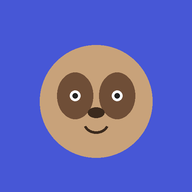
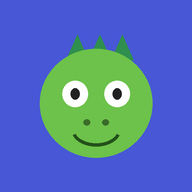
Add files via upload

Changed region(s): [[0.1875, 0.1875, 0.8125, 0.8438]]

diff --git a/index.html b/index.html
@@ -29,9 +29,21 @@ h1{font-size:28px;margin:4px 0 2px}h2{font-size:20px;margin:0 0 8px}
 .combo{text-align:center;font-weight:800;font-size:22px;min-height:34px;margin:0 0 8px}
 .pop{animation:pop .5s cubic-bezier(.3,1.6,.5,1)}@keyframes pop{from{transform:scale(.4);opacity:0}}
 .fx{position:fixed;top:-30px;font-size:28px;pointer-events:none;animation:fall 1.6s ease-in forwards;z-index:9}@keyframes fall{to{transform:translateY(110vh) rotate(360deg)}}
-@media (prefers-reduced-motion:reduce){.trail .me,.pop{animation:none}.fx{display:none}}
+@media (prefers-reduced-motion:reduce){.trail .me,.pop,.dz,.nt{animation:none}.fx{display:none}}
 .dots{display:flex;gap:6px;margin:0 0 14px}.dots i{flex:1;height:8px;border-radius:5px;background:var(--ac2)}.dots i.d{background:var(--ac)}
-.q{font-size:52px;font-weight:800;text-align:center;padding:30px 8px;letter-spacing:1px}
+.q{font-size:46px;font-weight:800;text-align:center;padding:12px 8px;letter-spacing:1px}
+.stage{height:80px;text-align:center;margin:0 0 4px}.stage .dz{display:inline-block;font-size:46px;line-height:56px}.stage .cap{font-weight:800;font-size:15px;height:20px}
+.nt{display:inline-block;width:34px;font-size:24px;animation:flt 1s ease-in-out infinite}.nt.n2{animation-delay:.4s}
+@keyframes flt{50%{transform:translateY(-10px) rotate(12deg)}}
+.d0{opacity:.55}.d1{animation:sway .9s ease-in-out infinite}.d2{animation:hop2 .5s ease-in-out infinite}.d3{animation:spin 1s linear infinite,hop2 .5s ease-in-out infinite}.d4{animation:party .6s ease-in-out infinite}
+@keyframes sway{0%,100%{transform:rotate(-12deg)}50%{transform:rotate(12deg)}}
+@keyframes hop2{50%{transform:translateY(-12px) scale(1.15)}}
+@keyframes spin{to{rotate:360deg}}
+@keyframes party{25%{transform:translateY(-14px) rotate(-18deg) scale(1.2)}75%{transform:translateY(-14px) rotate(18deg) scale(1.2)}}
+.fbw{min-height:70px}.fbw .fb{font-size:15px;margin:0 0 6px;padding:8px 12px}
+.ar{display:flex;gap:6px;margin:0 0 6px}.ar .b{width:64px;margin:0;font-size:24px;min-height:56px}
+.ans{flex:1;min-height:56px;display:grid;place-items:center;font-size:32px;font-weight:800;border:2px solid var(--bd);border-radius:16px;background:var(--card)}
+.kp5{display:grid;grid-template-columns:repeat(5,1fr);gap:6px;margin:0 0 6px}.kp5 .b{margin:0;min-height:52px;font-size:24px}
 input{width:100%;min-height:62px;font:inherit;font-size:30px;font-weight:700;text-align:center;border-radius:16px;border:2px solid var(--bd);background:var(--card);color:var(--tx);margin:0 0 12px}
 .fb{border-radius:14px;padding:12px 14px;margin:0 0 12px;font-size:17px}
 .fb.ok{background:var(--ok2);color:var(--ok)}.fb.tp{background:var(--tp2);color:var(--tp)}
@@ -108,8 +120,28 @@ let AC;const snd=(f,d,t,s,v,f2)=>{if(S.mute)return;try{AC=AC||new(window.AudioCo
 const ding=()=>{snd(660,.12,`triangle`);snd(880,.16,`triangle`,.09)},boing=()=>{snd(150,.28,`sine`,0,.25,650);snd(650,.25,`sine`,.28,.2,180)},fan=()=>[523,659,784,1047,1319].forEach((f,k)=>snd(f,.18,`triangle`,k*.1,.18));
 const burst=e=>{for(let k=0;k<26;k++){const x=document.createElement(`span`);x.className=`fx`;x.textContent=pick(e);x.style.left=r(0,92)+`vw`;x.style.animationDelay=(r(0,40)/100)+`s`;document.body.appendChild(x);setTimeout(()=>x.remove(),2300)}};
 const TR=[`🌲`,`🍄`,`🌉`,`🐊`,`⛰`,`🌋`,`🏝`,`🦀`,`🏰`,`💎`];
-const trail=()=>{const p=S.steps%10;return `<div class="trail">${TR.map((e,k)=>`<span class="${k<p?`v`:k==p?`me`:``}">${k==p?`🦥`:e}</span>`).join(``)}</div>`};
-const combo=()=>cb>=2?`<div class="combo${locked&&cb>=3?` pop`:``}">${`🔥`.repeat(Math.min(cb,8))} ${cb>=8?`TÖKÉLETES! `:cb>=5?`SZUPER! `:cb>=3?`SOROZAT! `:``}${cb} egymás után</div>`:`<div class="combo"></div>`;
+const trail=()=>{const p=S.steps%10;return `<div class="trail">${TR.map((e,k)=>`<span class="${k<p?`v`:k==p?`me`:``}">${k==p?DZ:e}</span>`).join(``)}</div>`};
+let ans=``,seq=null,stp=0;
+const DZ=`🦖`,fq=n=>261.63*Math.pow(2,n/12),ac=()=>{AC=AC||new(window.AudioContext||window.webkitAudioContext)();if(AC.state==`suspended`)AC.resume();return AC};
+function vox(f,d){try{const a=ac(),n=a.currentTime,o=a.createOscillator(),g=a.createGain(),b1=a.createBiquadFilter(),b2=a.createBiquadFilter(),l=a.createOscillator(),lg=a.createGain();
+ o.type=`sawtooth`;o.frequency.value=f;l.frequency.value=5.5;lg.gain.value=f*.012;l.connect(lg);lg.connect(o.frequency);
+ b1.type=b2.type=`bandpass`;b1.frequency.value=800;b2.frequency.value=1250;b1.Q.value=b2.Q.value=5;
+ o.connect(b1);o.connect(b2);b1.connect(g);b2.connect(g);g.connect(a.destination);
+ g.gain.setValueAtTime(0,n);g.gain.linearRampToValueAtTime(.5,n+.05);g.gain.linearRampToValueAtTime(0,n+d);
+ o.start(n);l.start(n);o.stop(n+d);l.stop(n+d)}catch(e){}}
+function tick(){if(!cb||V!=`quiz`){clearInterval(seq);seq=null;return}if(S.mute)return;
+ const s=stp++%8,L=cb,sc=[0,2,4,7,9];
+ if(s%4==0)snd(150,.16,`sine`,0,.32,45);
+ if(s%2==1)snd(7000,.03,`square`,0,.025);
+ if(L>=2&&s%2==0)snd(fq([0,0,7,5][(s>>1)&3]-12),.26,`triangle`,0,.22);
+ if(L>=3&&s%2==0)snd(fq(pick(sc)+12),.22,`triangle`,0,.12);
+ if(L>=5&&s%4==2)vox(fq(pick([0,4,7])),.5);
+ if(L>=8&&s%2==1)snd(fq(pick(sc)+24),.1,`square`,0,.04)}
+const songOn=()=>{if(!seq){stp=0;seq=setInterval(tick,240)}};
+function key(k){if(locked)return;if(k==`✓`)return sub();if(k==`⌫`)ans=ans.slice(0,-1);else if(ans.length<5)ans+=k;const e=document.getElementById(`ans`);if(e)e.innerHTML=ans||`&nbsp;`}
+document.addEventListener(`keydown`,e=>{if(V!=`quiz`)return;if(/^\d$/.test(e.key))key(e.key);else if(e.key==`Backspace`)key(`⌫`);else if(e.key==`Enter`)key(`✓`)});
+const combo=()=>{const l=cb>=8?4:cb>=5?3:cb>=3?2:cb>=1?1:0;
+ return `<div class="stage">${l?`<span class="nt">${l>=2?`🎵`:``}</span><span class="dz d${l}">${DZ}</span><span class="nt n2">${l>=3?`🎶`:``}</span>`:`<span class="dz d0">${DZ}</span>`}<div class="cap">${cb>=2?`${cb>=8?`TÖKÉLETES! `:cb>=5?`SZUPER! `:cb>=3?`SOROZAT! `:``}${cb} egymás után`:`&nbsp;`}</div></div>`};
 function startFree(id){diag=false;Q=[];add(SK.find(s=>s.id==id),8);go()}const lv=p=>Math.floor(p/100);const ST=[`🦊`,`🚀`,`🐙`,`🦄`,`🐲`,`🦖`,`🪐`,`🏆`];const mast=id=>(S.hist[id]||[]).length>=8&&mean(id)>=.9;
 const today=()=>new Date().toLocaleDateString(`sv`);
 const streak=()=>{const set=new Set(S.days);let d=new Date();if(!set.has(d.toLocaleDateString(`sv`)))d.setDate(d.getDate()-1);let n=0;while(set.has(d.toLocaleDateString(`sv`))){n++;d.setDate(d.getDate()-1)}return n};
@@ -117,20 +149,20 @@ let V=`home`,Q=[],i=0,tr=0,diag=false,got=0,fb=``,hint=``,locked=false,rs=false,
 const add=(sk,n)=>{let c=0,g=0;while(c<n&&g<200){g++;const x=sk.g();if(Q.some(y=>y.q==x.q))continue;x.s=sk.id;Q.push(x);c++}};
 function startDiag(){diag=true;Q=[];SK.filter(s=>s.core).forEach(s=>add(s,2));Q.sort(()=>Math.random()-.5);go()}
 function startPractice(){diag=false;Q=[];const has=s=>(S.hist[s.id]||[]).length>0,pool=SK.filter(s=>s.core||has(s)),o=pool.slice().sort((a,b)=>mean(a.id)-mean(b.id)),ex=SK.filter(s=>!s.core).sort((a,b)=>(S.hist[a.id]||[]).length-(S.hist[b.id]||[]).length)[0],st=pool.filter(has).sort((a,b)=>mean(b.id)-mean(a.id))[0]||o[o.length-1];add(st,2);add(o[0],4);if(ex&&ex!==o[0]&&ex!==st)add(ex,2);else add(o[0],2);go()}
-function go(){i=0;tr=0;got=0;sp=0;cb=0;p0=S.pts;fb=``;hint=``;locked=false;V=`quiz`;show()}
+function go(){ans=``;i=0;tr=0;got=0;sp=0;cb=0;p0=S.pts;fb=``;hint=``;locked=false;V=`quiz`;show()}
 function rec(c,v){const h=(S.hist[c.s]||[]);h.push(v);S.hist[c.s]=h.slice(-10);save()}
 function miss(c){if(c.k){S.miss[c.k]=(S.miss[c.k]||0)+1;save()}}
-function sub(){if(locked)return;const el=document.getElementById(`in`),v=el.value.trim();if(v==``)return;const c=Q[i],ok=parseInt(v,10)===c.a;
- if(ok){if(tr==0){got++;cb++;const bn=cb%3==0?5:0;aw(10+bn);ft=bn?`Sorozat: ${cb} egymás után! ✓ +${10+bn}`:`Ügyes! ✓ +10`;if(cb==3||cb==5||cb==8){fan();burst(cb>=8?[`🌟`,`🎉`,`🔥`,`🏆`]:cb>=5?[`🎉`,`⭐`,`🔥`]:[`⭐`,`✨`])}else ding();rec(c,1);if(c.k&&S.miss[c.k]>0){S.miss[c.k]--;save()}}else{cb=0;aw(5);ft=`Megvan! ✓ +5`;snd(560,.15,`triangle`);rec(c,0);miss(c)}fb=`ok`;locked=true;show();setTimeout(next,tr==0?650:900)}
+function sub(){if(locked)return;const v=ans.trim();if(v==``)return;ans=``;const c=Q[i],ok=parseInt(v,10)===c.a;
+ if(ok){if(tr==0){got++;cb++;songOn();const bn=cb%3==0?5:0;aw(10+bn);ft=bn?`Sorozat: ${cb} egymás után! ✓ +${10+bn}`:`Ügyes! ✓ +10`;if(cb==3||cb==5||cb==8){fan();burst(cb>=8?[`🌟`,`🎉`,`🔥`,`🏆`]:cb>=5?[`🎉`,`⭐`,`🔥`]:[`⭐`,`✨`])}else ding();rec(c,1);if(c.k&&S.miss[c.k]>0){S.miss[c.k]--;save()}}else{cb=0;aw(5);ft=`Megvan! ✓ +5`;snd(560,.15,`triangle`);rec(c,0);miss(c)}fb=`ok`;locked=true;show();setTimeout(next,tr==0?650:900)}
  else if(diag){cb=0;rec(c,0);miss(c);next()}
  else if(tr==0){tr=1;hint=c.h;fb=`tp`;snd(300,.18,`sine`,0,.1,220);show()}
  else{cb=0;rec(c,0);miss(c);fb=`ans`;locked=true;show();setTimeout(next,1900)}}
-function next(){i++;tr=0;fb=``;hint=``;locked=false;if(i>=Q.length){const t=today();if(!S.days.includes(t)){S.days.push(t);aw(20)}if(diag)S.diag=true;S.steps++;save();V=`done`;boing();if(S.steps%10==0){setTimeout(fan,500);burst([`💎`,`🎉`,`⭐`,`🏆`])}}show()}
+function next(){ans=``;i++;tr=0;fb=``;hint=``;locked=false;if(i>=Q.length){const t=today();if(!S.days.includes(t)){S.days.push(t);aw(20)}if(diag)S.diag=true;S.steps++;save();V=`done`;boing();if(S.steps%10==0){setTimeout(fan,500);burst([`💎`,`🎉`,`⭐`,`🏆`])}}show()}
 function show(){if(authView())return;
  if(V==`home`){const st=streak();
   $.innerHTML=`<h1>Számolós</h1><p class="mu">${role==`child`&&U()?`Szia, ${U().child.name}! `:``}Napi 10 perc, egy dolog egyszerre.</p>
   <div class="c"><div class="row"><b>Szint ${lv(S.pts)+1}</b><span>${S.pts} pont</span></div><div class="bar"><i style="width:${S.pts%100}%"></i></div><div class="st">${ST.map((e,k)=>k<lv(S.pts)?`<span>${e}</span>`:`<span class="x">?</span>`).join(``)}</div><p class="mu" style="margin:12px 0 0">Még ${100-S.pts%100} pont a következő matricáig. ${st?`${st} napja gyakorolsz egyfolytában.`:`Ma még nem gyakoroltál.`}</p></div>
-  <div class="c"><div class="row"><b>Laci kalandja</b><span>${S.steps} lépés</span></div>${trail()}<p class="mu" style="margin:6px 0 0">Minden befejezett körrel Laci, a lajhár egy lépést tesz a kincs felé.</p></div>
+  <div class="c"><div class="row"><b>Kalandút</b><span>${S.steps} lépés</span></div>${trail()}<p class="mu" style="margin:6px 0 0">Minden befejezett körrel a dínó egy lépést tesz a kincs felé.</p></div>
   <button class="b" onclick="${S.diag?`startPractice()`:`startDiag()`}">${S.diag?`Mai gyakorlás`:`Kezdjük egy kis felméréssel`}</button>${S.diag?`<button class="b s" onclick="V='free';show()">Szabad gyakorlás</button>`:``}
   ${S.diag?`<button class="b s" onclick="startDiag()">Új felmérés</button>`:`<p class="mu">Pár feladat, hogy lássuk, min érdemes kezdeni. Itt nincs rossz válasz, csak információ.</p>`}
   ${S.diag?`<div class="c"><h2>Hol tartasz</h2>${SK.filter(s=>s.core||(S.hist[s.id]||[]).length).map(s=>`<div class="row"><span>${s.n}</span>${mast(s.id)?`<b>⭐ Mester</b>`:``}</div><div class="bar"><i style="width:${Math.round(mean(s.id)*100)}%"></i></div>`).join(``)}</div>`:``}
@@ -138,14 +170,13 @@ function show(){if(authView())return;
  else if(V==`quiz`){const c=Q[i];
   $.innerHTML=`<div class="dots">${Q.map((_,k)=>`<i class="${k<i?`d`:``}"></i>`).join(``)}</div>
   ${combo()}<div class="c"><div class="q${c.q.length>14?` t`:``}">${c.q}${c.q.length>14?``:` = ?`}</div></div>
-  ${fb==`ok`?`<div class="fb ok">${ft}</div>`:fb==`tp`?`<div class="fb tp"><b>Majdnem!</b> Egy tipp: ${hint}<br>Próbáld újra.</div>`:fb==`ans`?`<div class="fb tp">A válasz: <b>${c.a}</b>. Semmi baj, megyünk tovább!</div>`:``}
-  <input id="in" type="text" inputmode="numeric" pattern="[0-9]*" autocomplete="off" aria-label="Válasz" ${locked?`disabled`:``} onkeydown="if(event.key==='Enter')sub()">
-  <button class="b" onclick="sub()" ${locked?`disabled`:``}>Kész</button>
-  <button class="l" onclick="V='home';show()">Kilépek</button>`;
-  if(!locked)document.getElementById(`in`).focus()}
+  <div class="fbw">${fb==`ok`?`<div class="fb ok">${ft}</div>`:fb==`tp`?`<div class="fb tp"><b>Majdnem!</b> Egy tipp: ${hint}<br>Próbáld újra.</div>`:fb==`ans`?`<div class="fb tp">A válasz: <b>${c.a}</b>. Semmi baj, megyünk tovább!</div>`:``}</div>
+  <div class="ar"><div class="ans" id="ans">${ans||`&nbsp;`}</div><button class="b s" onclick="key('⌫')" aria-label="Törlés">⌫</button><button class="b" onclick="key('✓')" aria-label="Kész">✓</button></div>
+  <div class="kp5">${[1,2,3,4,5,6,7,8,9,0].map(k=>`<button class="b s" onclick="key('${k}')">${k}</button>`).join(``)}</div>
+  <button class="l" onclick="V='home';show()">Kilépek</button>`;}
  else if(V==`done`){const w=SK.slice().sort((a,b)=>mean(a.id)-mean(b.id))[0];
   $.innerHTML=`<div class="c"><div class="big">🎉</div><h2 style="text-align:center">${diag?`Kész a felmérés!`:`Mára ennyi, szép munka!`}</h2>
-  <p class="mu" style="text-align:center">${diag?`Most már tudjuk, min érdemes kezdeni.`:`Elsőre jó: ${got} / ${Q.length}. Holnap folytatjuk!`}</p><div class="big">+${sp} pont</div>${trail()}<p class="mu" style="text-align:center">${S.steps%10==0?`Megtaláltátok a kincset! 💎 Új kaland kezdődik.`:`Laci, a lajhár egy lépéssel közelebb ért a kincshez. Boing!`}</p>${lv(S.pts)>lv(p0)&&lv(p0)<ST.length?`<p style="text-align:center;font-size:18px">Új szint! Új matrica: <span style="font-size:34px">${ST[Math.min(lv(S.pts),ST.length)-1]}</span></p>`:``}</div>
+  <p class="mu" style="text-align:center">${diag?`Most már tudjuk, min érdemes kezdeni.`:`Elsőre jó: ${got} / ${Q.length}. Holnap folytatjuk!`}</p><div class="big">+${sp} pont</div>${trail()}<p class="mu" style="text-align:center">${S.steps%10==0?`Megtaláltátok a kincset! 💎 Új kaland kezdődik.`:`A dínó egy lépéssel közelebb ért a kincshez. Boing!`}</p>${lv(S.pts)>lv(p0)&&lv(p0)<ST.length?`<p style="text-align:center;font-size:18px">Új szint! Új matrica: <span style="font-size:34px">${ST[Math.min(lv(S.pts),ST.length)-1]}</span></p>`:``}</div>
   <button class="b" onclick="V='home';show()">Vissza</button>`}
  else if(V==`free`){$.innerHTML=`<h1>Szabad gyakorlás</h1><p class="mu">Válassz, mit szeretnél gyakorolni. 8 feladat jön.</p>${SK.map(s=>`<button class="b s" onclick="startFree('${s.id}')">${s.n}</button>`).join(``)}<button class="l" onclick="V='home';show()">Vissza</button>`}
  else if(V==`parent`){const m=Object.entries(S.miss).filter(e=>e[1]>0).sort((a,b)=>b[1]-a[1]).slice(0,8);

diff --git a/sw.js b/sw.js
@@ -1,4 +1,4 @@
-const V='szamolos-v1',F=['./','./index.html','./manifest.webmanifest','./icon-192.png','./icon-512.png'];
+const V='szamolos-v2',F=['./','./index.html','./manifest.webmanifest','./icon-192.png','./icon-512.png'];
 self.addEventListener('install',e=>{e.waitUntil(caches.open(V).then(c=>c.addAll(F)));self.skipWaiting()});
 self.addEventListener('activate',e=>{e.waitUntil(caches.keys().then(k=>Promise.all(k.filter(x=>x!==V).map(x=>caches.delete(x)))));self.clients.claim()});
 self.addEventListener('fetch',e=>{if(e.request.method!=='GET')return;e.respondWith(fetch(e.request).then(r=>{const c=r.clone();caches.open(V).then(x=>x.put(e.request,c));return r}).catch(()=>caches.match(e.request).then(m=>m||caches.match('./index.html'))))});
